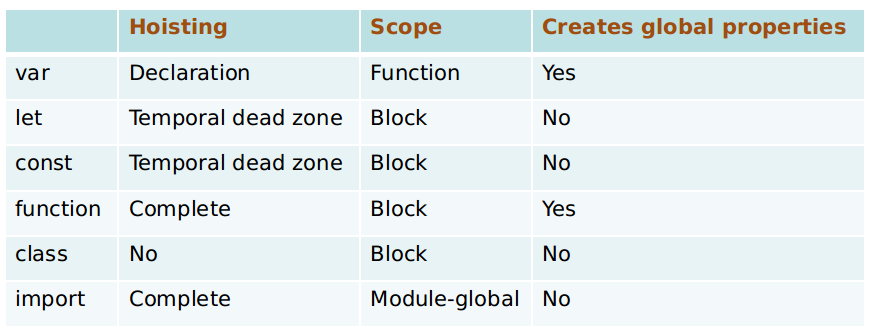
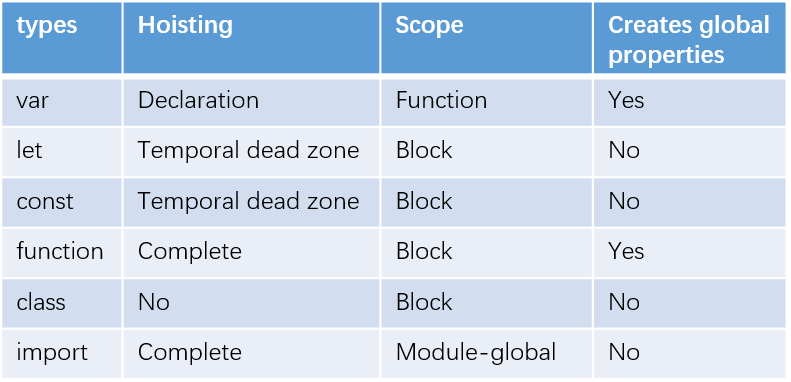
update pngs

diff --git a/ppt/es6/index.html b/ppt/es6/index.html
@@ -53,12 +53,12 @@
 				</section>
 				<section>
 					<h3>structure preview</h3>
-					<img width="880" height="552" src="core-feature.jpg">
+					<img src="core-feature.png" style="padding: 5px; background: #ffffff">
 				</section>
 				<section data-markdown>
 					<script type="text/template">
 						### let & const: block-scoped
-						#### *VS* var: function-scoped
+						#### replace var: function-scoped
 						```javascript
 						let x = 1
 						let y = 1
@@ -77,6 +77,7 @@
 				</section>
 				<section data-markdown>
 					<script type="text/template">
+						### let & const: for loop
 						```javascript
 						for(var i = 0; i < 5; i++) {
 							setTimeout(function() { console.log(i) })
@@ -97,8 +98,8 @@
 					</script>
 				</section>
 				<section>
-					<h3>Ways of declaring variables</h3>
-					<img width="873" height="331" src="var-declare.png">
+					<h3>ways of declaring variables</h3>
+					<img src="var-declare.png">
 				</section>
 				<section data-markdown>
 					<script type="text/template">
@@ -109,15 +110,15 @@
 							const object = {
 								a: 1
 							}
+
 							let modifyFlag = true
-							
 							modifyFlag = false
 
 							for(let i = 0; i < 5; i++) {}
 						}
 						```
 
-						advice: prefer const, otherwise let, avoid var
+						advice: prefer const > otherwise let > avoid var
 					</script>
 				</section>
 				<section data-markdown>
@@ -159,8 +160,8 @@
 				</section>
 				<section data-markdown>
 					<script type="text/template">
-						### arrow functions *VS*
-						#### tradional functions
+						### arrow functions: lexical this
+						#### tradional functions: dynamic this
 						```javascript
 						function Person() {
 							this.age = 0
@@ -169,6 +170,7 @@
 								this.age++
 							}, 1000)
 						}
+
 						// solve 1
 						function Person() {
 							var that = this
@@ -177,12 +179,6 @@
 								that.age++
 							}, 1000)
 						}
-						```
-					</script>
-				</section>
-				<section data-markdown>
-					<script type="text/template">
-						```javascript
 						// solve 2
 						function Person() {
 							this.age = 0
@@ -201,8 +197,27 @@
 					</script>
 				</section>
 				<section>
-					<h3>arrow functions:best practice</h3>
-					<img width="824" height="191" src="arrow.png">
+					<h3>arrow functions: lexical variables</h3>
+					<img src="arrow.png">
+				</section>
+				<section>
+					<h3>array:new features</h3>
+					<img src="array.png">
+				</section>
+				<section data-markdown>
+					<script type="text/template">
+						### array: new features
+						```javascript
+						let arraylike = {
+							1: 'a',
+							length: 3
+						}
+						const arr1 = [].slice.call(arraylike)
+						const arr2 = Array.from(arraylike)
+
+						const arr3 = Array.from([1, 2, 3], v => v * 2)
+						```
+					</script>
 				</section>
 				<section data-markdown>
 					<script type="text/template">
@@ -400,17 +415,16 @@
 					<script type="text/template">
 						### promise: syntax
 						```javascript
-						function asyncFunc()
-						{
-							return new Promise((resolve, reject) => {
-								...
+						const promise = new Promise((resolve, reject) => {
+							...
+							if (...) {
 								resolve(result)     // pending->resolved
-								...
+							} else {
 								reject(error)       // pending->rejected
-							})
-						}
-
-						asyncFunc().then(result => {
+							}
+						})
+						
+						promise.then(result => {
 							// success
 						}).catch(error => {
 							// failure
@@ -419,8 +433,48 @@
 					</script>
 				</section>
 				<section>
-					<h3>promise: states</h3>
-					<img width="814" height="319" src="promise.png">
+					<h3>promise: three states</h3>
+					<img width="826" height="355" src="promise.png">
+				</section>
+				<section data-markdown>
+					<script type="text/template">
+						### promise: best practice
+						```javascript
+						function delay(time) {
+							return new Promise((resolve, reject) => {
+								setTimeout(resolve, time)
+							})
+						}
+
+						function timeout(time, promise) {
+							return new Promise((resolve, reject) => {
+								promise.then(resolve)
+								setTimeout(reject, time)
+							})
+						}
+						```
+					</script>
+				</section>
+				<section data-markdown>
+					<script type="text/template">
+						### promise: best practice
+						#### reference: [souce code of fetch](https://github.com/github/fetch/blob/master/fetch.js#L441:17)
+						```javascript
+						function fetch(url, options) {
+							return new Promise((resolve, reject) => {
+								var xhr = new XMLHttpRequest()
+
+								xhr.onload = function() {
+									if(this.status === 200) { resolve(this.response) }
+									else { reject(new Error(this.statusText)) }
+								}
+
+								xhr.open(options.method, url, true)
+								xhr.send()
+							})
+						}
+						```
+					</script>
 				</section>
 				<section data-markdown>
 					<script type="text/template">
